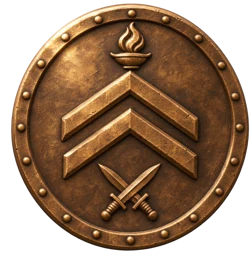
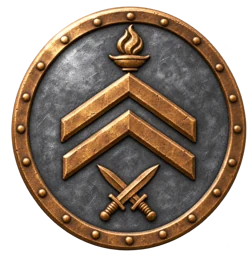
Art: rank_04 updated (iron face, bronze rim)
Claude-Session: https://claude.ai/code/session_01LLNSSFNzfHsbSUVKKUqHTx

diff --git a/sw.js b/sw.js
@@ -1,5 +1,5 @@
 // Network-first for the app shell so updates arrive right away; cache is the offline fallback.
-const CACHE = 'imc-v27';
+const CACHE = 'imc-v28';
 const SHELL = ['./', './index.html', './manifest.webmanifest', './icons/icon.svg', './icons/icon-192.png', './map.json', './map.jpg', './story.json', './battle.js', './election.js', './command.js', './profile.js', './elec/us.json', './art/map_farmland.webp', './art/u_tank_light.webp'];
 self.addEventListener('install', e => { e.waitUntil(caches.open(CACHE).then(c => c.addAll(SHELL)).then(() => self.skipWaiting())); });
 self.addEventListener('activate', e => { e.waitUntil(caches.keys().then(ks => Promise.all(ks.filter(k => k !== CACHE).map(k => caches.delete(k)))).then(() => self.clients.claim())); });
